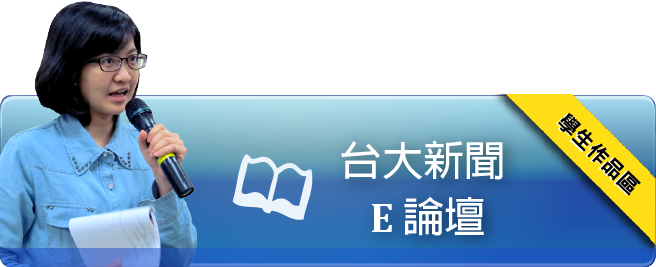
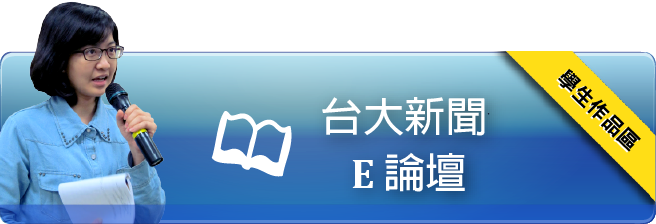
update ie layout

diff --git a/public/css/custom.css b/public/css/custom.css
@@ -13,16 +13,16 @@ hr{border:0;height:3px;margin-top:-9px;background-color:#76B4D8}
 .header .header-navi-bar .dropdown-menu>li{min-width:120px;margin:0px}
 .header .header-navi-bar .dropdown-menu>li>a{margin:0px;padding-left:0px;padding-right:0px}
 .content{position:relative;width:900px;min-height:500px;margin:auto;box-shadow:0px 0px 5px #999}.content .col-md-2,.content .col-md-4,.content .col-md-8,.content .col-md-10{padding-left:0;padding-right:0}
-.content .link{position:relative;margin:0px auto;width:900px;height:150px;padding-top:10px;padding-left:10px;padding-right:10px;padding-bottom:10px;display:inline-block}.content .link img{vertical-align:baseline}
+.content .link{position:relative;margin:0px auto;width:100%;height:150px;padding-top:10px;padding-left:20px;padding-right:20px;padding-bottom:10px;display:inline-block}.content .link img{vertical-align:baseline}
 .content .link .link-e-forum{position:absolute;top:10px;margin:0px auto;width:345px;height:200px;display:inline-block}
-.content .link .link-fb{position:absolute;top:53px;left:340px;margin:0px auto;width:260px;height:200px;display:inline-block}
-.content .link .link-enroll{position:absolute;top:53px;left:625px;margin:0px auto;width:275px;height:200px;display:inline-block}
+.content .link .link-fb{position:absolute;top:33px;left:347px;margin:0px auto;width:260px;height:200px;display:inline-block}
+.content .link .link-enroll{position:absolute;top:33px;left:625px;margin:0px auto;width:275px;height:200px;display:inline-block}
 .content .link .sub-link-e-forum,.content .link .sub-link-e-flickr{margin-left:1px}
-.content .carousel{background-repeat:no-repeat;width:600px;height:350px;display:inline-block}.content .carousel .carousel-indicators{top:5%}
+.content .carousel{background-repeat:no-repeat;width:600px;height:350px;display:inline-block;float:left}.content .carousel .carousel-indicators{top:5%}
 .content .carousel .carousel-control .icon-prev{top:90%;left:25%}
 .content .carousel .carousel-control .icon-next{top:90%;left:75%}
 .content .carousel .carousel-caption{left:0%;bottom:0%;z-index:0;width:600px;height:55px;background-color:rgba(0,0,0,0.5)}.content .carousel .carousel-caption .carousel-text{top:0%;z-index:1;font-family:微軟正黑體;font-size:16px;color:#FFFFFF;color:#fff;opacity:1;font-weight:bolder}
-.content .news{background-color:rgba(206,235,240,0.5);height:350px;padding:20px;display:inline-block}.content .news .title{font-family:微軟正黑體;font-size:20px;color:#182945;text-outline:#182945;margin-left:10px;font-weight:bolder}
+.content .news{background-color:rgba(206,235,240,0.5);height:350px;width:300px;padding:20px;display:inline-block}.content .news .title{font-family:微軟正黑體;font-size:20px;color:#182945;text-outline:#182945;margin-left:10px;font-weight:bolder}
 .content .news .table tbody>tr>td{border:0}
 .content .news .read-more{text-align:right;margin-left:auto;margin-right:0}
 .content .header-left{background:#DFE6F2;background:#dfe6f2;overflow:hidden}.content .header-left .list-text{background:#DFE6F2;background:#dfe6f2;text-align:center}

diff --git a/public/css/custom.less b/public/css/custom.less
@@ -128,11 +128,11 @@ hr {
 	.link {
         position: relative;
         margin: 0px auto;
-        width : 900px;
+        width : 100%;
         height : 150px;
         padding-top:10px; 
-        padding-left:10px; 
-        padding-right:10px; 
+        padding-left:20px; 
+        padding-right:20px; 
         padding-bottom:10px; 
         display: inline-block;
 
@@ -151,8 +151,8 @@ hr {
 
         .link-fb {
             position: absolute;
-            top: 53px;
-            left: 340px;
+            top: 33px;
+            left: 347px;
             margin: 0px auto;
             width : 260px;
             height : 200px;
@@ -161,7 +161,7 @@ hr {
 
         .link-enroll {
             position: absolute;
-            top: 53px;
+            top: 33px;
             left: 625px;
             margin: 0px auto;
             width : 275px;
@@ -179,6 +179,7 @@ hr {
         width : 600px;
         height : 350px;
         display : inline-block;
+        float: left;
 
         .carousel-indicators {
             top : 5%;
@@ -218,6 +219,7 @@ hr {
     .news {
         background-color: rgba(206,235,240,0.5);
         height : 350px;
+        width : 300px;
         padding: 20px;
         display : inline-block;
 
